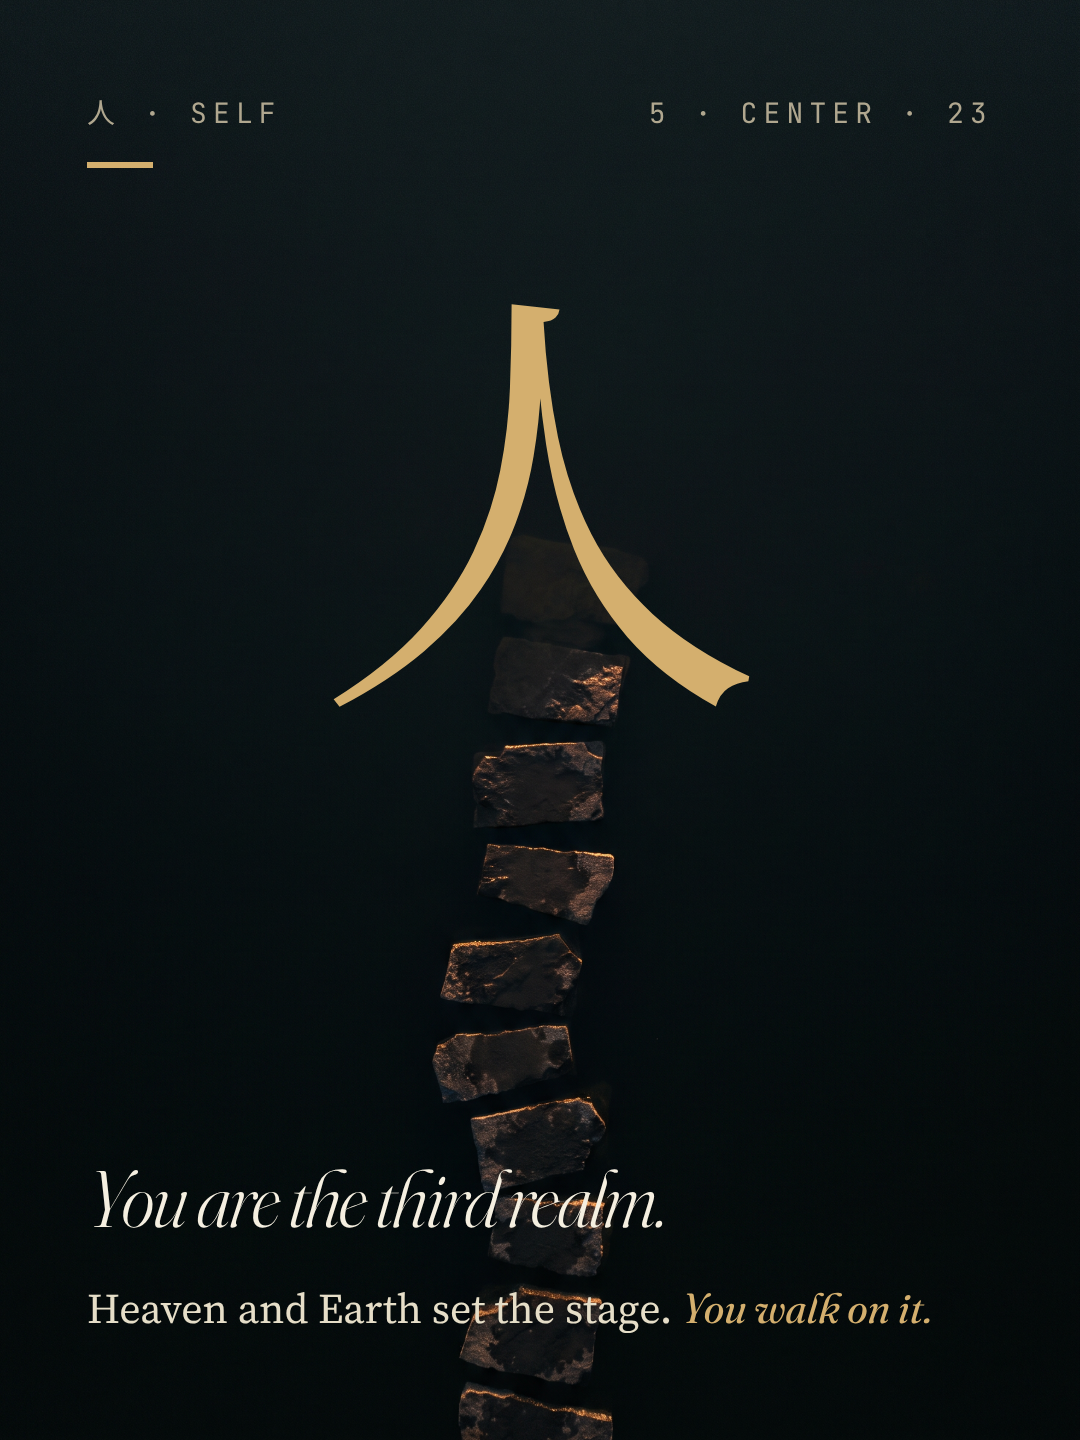
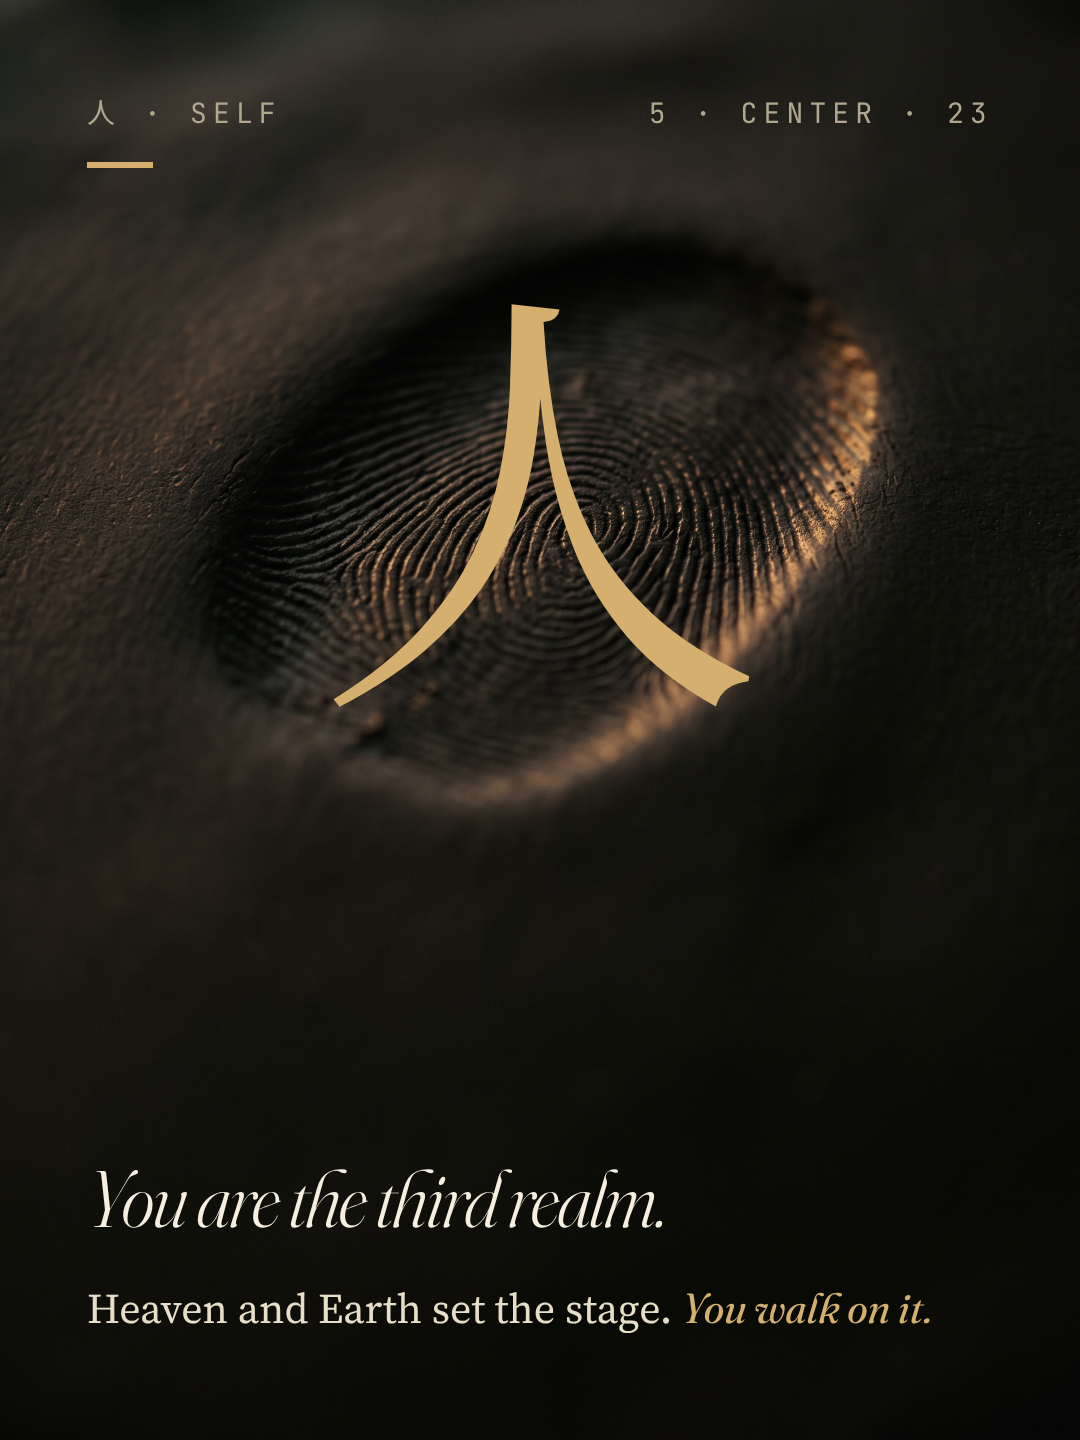
Grid 3: center 23 on a thumbprint, post 22 rewritten (Three kinds of qi move your day.)
Claude-Session: https://claude.ai/code/session_015jTJxJgW7zrZMbAgWj2crG

diff --git a/engine3/grids/g3.py b/engine3/grids/g3.py
@@ -14,6 +14,8 @@ Revisions
   25 frost crystal, 20 tea table. Center 23 moved off the shared slate (the bottom of the grid read
   as one grey) to stepping stones over black water. Unpicked options are logged in the matrix
   Assets sheet as Available.
+- Nov 23: center 23 changed to a thumbprint in dark clay (an image that stands for "you"); post 22 rewritten from
+  "Which realm do you ignore?" to "Three kinds of qi move your day." (people feel the three qi without knowing them).
 - Posts 21 and 26 are carousel covers: slides 2-5 still to build.
 """
 import os as _os
@@ -25,7 +27,7 @@ BACKGROUNDS = {
     'moongate':       'aedc6398-e3b1-4cce-ac60-a4a40731a2aa',  # 19 · moon gate in pale plaster framing a dawn sky
     'crystal':        '8c121ae7-0889-4eb7-9c9d-3963803fd983',  # 25 · one frost crystal on dark glass, lit gold
     'teatable':       '08058c9b-6569-4d24-8cc9-8900b5f8c4f7',  # 20 · low tea table, three cushions, morning sun
-    'steppingstones': '1dda2bda-b785-43df-834c-453f22117a2e',  # 23 · stepping stones over still black water, from above
+    'thumbprint':     'b2e6a72c-83b1-4f59-9ed0-3d55963bf55d',  # 23 · one thumbprint pressed into dark clay, warm side light
     'paper':          '2ce98312-8a6f-42ea-9cdc-dc6ae3824c10',  # shared paper (21, 22)
     'slate':          '5ddfefae-351d-40c8-8d28-99d76b29f0f0',  # shared slate (26, 27)
 }
@@ -42,14 +44,14 @@ TILES = [  # profile order, approved
          head='Not your sun sign. Your own chart.', body='About one in twelve share your sun sign.', accent='Your chart goes much further.'),
     dict(post=20, slug='right-time-place-people', template='sky', bg='teatable', dark=False, kicker='The three realms', palace='3 · E · 20',
          head='Right time. Right place. Right people.', body='An old Chinese saying,', accent='and a map of a good decision.'),
-    dict(post=23, slug='third-realm', template='character', bg='steppingstones', dark=True, kicker='人 · Self', palace='5 · Center · 23', char='人',
+    dict(post=23, slug='third-realm', template='character', bg='thumbprint', dark=True, kicker='人 · Self', palace='5 · Center · 23', char='人',
          head='You are the third realm.', body='Heaven and Earth set the stage.', accent='You walk on it.'),
     dict(post=21, slug='three-realms-systems', template='plate', bg='paper', dark=False, kicker='The three realms', palace='7 · W · 21',
          art='three_realms', head='Three realms. Three systems.', cta='Swipe →'),
     dict(post=26, slug='meet-your-day-master', template='plate', bg='slate', dark=True, kicker='BaZi', palace='8 · NE · 26',
          art='ten_stems', head='Meet your Day Master.', body='The stem of your birth day is', accent='your center.', cta='Swipe for all ten →'),
-    dict(post=22, slug='which-realm', template='question', bg='paper', dark=False, kicker='Find yourself', palace='1 · N · 22',
-         head='Which realm do you ignore?', sub='Most of us read only one. All three are moving.', cta='Comment Cosmic, Earth or Self'),
+    dict(post=22, slug='three-qi', template='question', bg='paper', dark=False, kicker='Find yourself', palace='1 · N · 22',
+         head='Three kinds of qi move your day.', sub='Time, place and you. Most of us feel them without knowing their names.', cta='Comment the one you feel most'),
     dict(post=27, slug='which-day-master', template='question', bg='slate', dark=True, kicker='Find yourself', palace='6 · NW · 27',
          head='Ten Day Masters. Which are you?', sub='The Tree, the Rain, and eight more. Coming soon to the app.', cta='See how it reads · link in bio'),
 ]
